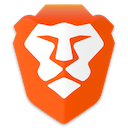
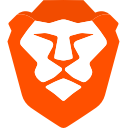
Initialize the Browser Action and set some settings:
- Badge color
- Higher resolution (vector) icon
  (Fix https://github.com/brave/brave-browser/issues/844)
- Badge displays '99+' when block count is > 99
- Shields are disabled for non-http(s) sites
  (Fix https://github.com/brave/brave-browser/issues/503)
- Default icon before a tab loads is the shields-on icon
- Set shields badge count for active tab only
  (Fix https://github.com/brave/brave-browser/issues/743)

Address some features of https://github.com/brave/brave-browser/issues/668

diff --git a/test/app/background/api/browserActionAPITest.ts b/test/app/background/api/browserActionAPITest.ts
@@ -13,7 +13,8 @@ describe('BrowserAction API', () => {
     before(function () {
       this.spy = sinon.spy(chrome.browserAction, 'setBadgeText')
       this.text = '42'
-      browserActionAPI.setBadgeText(this.text)
+      this.tabId = 1337
+      browserActionAPI.setBadgeText(this.tabId, this.text)
     })
     after(function () {
       this.spy.restore()
@@ -21,55 +22,52 @@ describe('BrowserAction API', () => {
     it('calls chrome.browserAction.setBadgeText with the text', function () {
       assert(this.spy.calledOnce)
       assert.deepEqual(this.spy.getCall(0).args[0], {
+        tabId: this.tabId,
         text: this.text
       })
     })
   })
   describe('setIcon', function () {
-    const enabledIconPath = 'img/icon-16.png'
-    const disabledIconPath = 'img/icon-16-disabled.png'
     before(function () {
-      this.spy = sinon.spy(chrome.browserAction, 'setIcon')
+      this.setIconSpy = sinon.spy(chrome.browserAction, 'setIcon')
+      this.disableSpy = sinon.spy(chrome.browserAction, 'disable')
+      this.enableSpy = sinon.spy(chrome.browserAction, 'enable')
       this.url = 'https://brave.com'
       this.tabId = 1
       this.shieldsEnabled = true
     })
     after(function () {
-      this.spy.restore()
+      this.setIconSpy.restore()
+      this.disableSpy.restore()
+      this.enableSpy.restore()
     })
     afterEach(function () {
-      this.spy.reset()
+      this.setIconSpy.reset()
+      this.disableSpy.reset()
+      this.enableSpy.reset()
     })
-    it('sets the enabled icon when protocol is http', function () {
+    it('sets enabled when protocol is http', function () {
       this.url = 'http://not-very-awesome-http-page.com'
       browserActionAPI.setIcon(this.url, this.tabId, this.shieldsEnabled)
-      assert.deepEqual(this.spy.getCall(0).args[0], {
-        path: enabledIconPath,
-        tabId: this.tabId
-      })
+      assert.deepEqual(this.enableSpy.getCall(0).args[0], this.tabId)
     })
     it('sets the enabled icon when protocol is https', function () {
       this.url = 'https://very-awesome-https-page.com'
       browserActionAPI.setIcon(this.url, this.tabId, this.shieldsEnabled)
-      assert.deepEqual(this.spy.getCall(0).args[0], {
-        path: enabledIconPath,
-        tabId: this.tabId
-      })
+      assert.deepEqual(this.enableSpy.getCall(0).args[0], this.tabId)
     })
     it('sets the disabled icon when the protocol is neither https nor http', function () {
       this.url = 'brave://welcome'
       browserActionAPI.setIcon(this.url, this.tabId, this.shieldsEnabled)
-      assert.deepEqual(this.spy.getCall(0).args[0], {
-        path: disabledIconPath,
-        tabId: this.tabId
-      })
+      assert.deepEqual(this.disableSpy.getCall(0).args[0], this.tabId)
     })
     it('sets the disabled icon when the protocol is http and shield is off', function () {
       this.url = 'http://not-very-awesome-http-page.com'
       this.shieldsEnabled = false
       browserActionAPI.setIcon(this.url, this.tabId, this.shieldsEnabled)
-      assert.deepEqual(this.spy.getCall(0).args[0], {
-        path: disabledIconPath,
+      assert.deepEqual(this.enableSpy.getCall(0).args[0], this.tabId)
+      assert.deepEqual(this.setIconSpy.getCall(0).args[0], {
+        path: browserActionAPI.shieldsOffIcon,
         tabId: this.tabId
       })
     })
@@ -77,8 +75,9 @@ describe('BrowserAction API', () => {
       this.url = 'https://very-awesome-https-page.com'
       this.shieldsEnabled = false
       browserActionAPI.setIcon(this.url, this.tabId, this.shieldsEnabled)
-      assert.deepEqual(this.spy.getCall(0).args[0], {
-        path: disabledIconPath,
+      assert.deepEqual(this.enableSpy.getCall(0).args[0], this.tabId)
+      assert.deepEqual(this.setIconSpy.getCall(0).args[0], {
+        path: browserActionAPI.shieldsOffIcon,
         tabId: this.tabId
       })
     })

diff --git a/app/background/api/browserActionAPI.ts b/app/background/api/browserActionAPI.ts
@@ -4,13 +4,37 @@
 
 import { isHttpOrHttps } from '../../helpers/urlUtils'
 
+export const shieldsOnIcon = 'img/icon.svg'
+export const shieldsOffIcon = 'img/icon-off.svg'
+
+/**
+ * Initializes the browser action UI
+ */
+export function init () {
+  // Setup badge color
+  chrome.browserAction.setBadgeBackgroundColor({
+    color: [66, 66, 66, 100]
+  })
+  // Initial / default icon
+  chrome.browserAction.setIcon({
+    path: shieldsOnIcon
+  })
+  // By default, icon is disabled,
+  // so that we do not enable the icon in a new tab and then disable it
+  // when the context is not http(s).
+  chrome.browserAction.disable()
+}
+
 /**
  * Sets the badge text
  * @param {string} text - The text to put on the badge
  */
-export const setBadgeText = (text: string) => {
+export const setBadgeText = (tabId: number, text: string) => {
   if (chrome.browserAction) {
-    chrome.browserAction.setBadgeText({ text: String(text) })
+    chrome.browserAction.setBadgeText({
+      tabId,
+      text: String(text)
+    })
   }
 }
 
@@ -18,13 +42,17 @@ export const setBadgeText = (text: string) => {
  * Updates the shields icon based on shields state
  */
 export const setIcon = (url: string, tabId: number, shieldsOn: boolean) => {
-  const shieldsEnabledIcon = 'img/icon-16.png'
-  const shieldsDisabledIcon = 'img/icon-16-disabled.png'
 
+  const actionIsDisabled = !isHttpOrHttps(url)
   if (chrome.browserAction) {
     chrome.browserAction.setIcon({
-      path: shieldsOn && isHttpOrHttps(url) ? shieldsEnabledIcon : shieldsDisabledIcon,
+      path: shieldsOn ? shieldsOnIcon : shieldsOffIcon,
       tabId
     })
+    if (actionIsDisabled) {
+      chrome.browserAction.disable(tabId)
+    } else {
+      chrome.browserAction.enable(tabId)
+    }
   }
 }

diff --git a/test/testData.ts b/test/testData.ts
@@ -74,8 +74,11 @@ export const getMockChrome = () => {
       onStartup: new ChromeEvent()
     },
     browserAction: {
-      setBadgeText: function (text: string) {},
-      setIcon: function (icon: string, tabId: number) {}
+      setBadgeBackgroundColor: function (properties: object) {},
+      setBadgeText: function (textProperties: object) {},
+      setIcon: function (iconProperties: object) {},
+      enable: function (tabId?: number) {},
+      disable: function (tabId?: number) {}
     },
     tabs: {
       queryAsync: function () {
@@ -149,6 +152,7 @@ export const initialState = deepFreeze({
     tabs: {},
     windows: {}
   },
+  runtime: {},
   shieldsPanel: {
     currentWindowId: -1,
     tabs: {},

diff --git a/app/types/actions/index.ts b/app/types/actions/index.ts
@@ -3,10 +3,12 @@ import { tabActions } from './tabActions'
 import { webNavigationActions } from './webNavigationActions'
 import { windowActions } from './windowActions'
 import { cosmeticFilterActions } from './cosmeticFilterActions'
+import { runtimeActions } from './runtimeActions'
 
 export type Actions =
   shieldPanelActions |
   tabActions |
   webNavigationActions |
   windowActions |
-  cosmeticFilterActions
+  cosmeticFilterActions |
+  runtimeActions

diff --git a/app/background/events/runtimeEvents.ts b/app/background/events/runtimeEvents.ts
@@ -4,8 +4,10 @@
 
 import windowActions from '../actions/windowActions'
 import tabActions from '../actions/tabActions'
+import runtimeActions from '../actions/runtimeActions'
 
 chrome.runtime.onStartup.addListener(() => {
+  runtimeActions.runtimeDidStartup()
   chrome.windows.getAllAsync({ populate: true }).then((windows: chrome.windows.Window[]) => {
     windows.forEach((win: chrome.windows.Window) => {
       windowActions.windowCreated(win)

diff --git a/app/background/reducers/runtimeReducer.ts b/app/background/reducers/runtimeReducer.ts
@@ -1,0 +1,15 @@
+import { Actions } from '../../types/actions'
+import * as runtimeActions from '../../constants/runtimeActionTypes'
+import * as browserActionAPI from '../api/browserActionAPI'
+
+type State = { }
+
+export default function runtimeReducer (state: State = { }, action: Actions): State {
+  switch (action.type) {
+    case runtimeActions.RUNTIME_DID_STARTUP: {
+      browserActionAPI.init()
+      break
+    }
+  }
+  return state
+}

diff --git a/app/background/reducers.ts b/app/background/reducers.ts
@@ -6,8 +6,10 @@ import { combineReducers } from 'redux'
 
 import shieldsPanelReducer from './reducers/shieldsPanelReducer'
 import cosmeticFilterReducer from './reducers/cosmeticFilterReducer'
+import runtimeReducer from './reducers/runtimeReducer'
 
 export default combineReducers({
   shieldsPanel: shieldsPanelReducer,
-  cosmeticFilter: cosmeticFilterReducer
+  cosmeticFilter: cosmeticFilterReducer,
+  runtime: runtimeReducer
 })

diff --git a/app/background/actions/runtimeActions.ts b/app/background/actions/runtimeActions.ts
@@ -1,0 +1,8 @@
+/* This Source Code Form is subject to the terms of the Mozilla Public
+ * License, v. 2.0. If a copy of the MPL was not distributed with this file,
+ * You can obtain one at http://mozilla.org/MPL/2.0/. */
+
+import { bindActionCreators } from 'redux'
+import store from '../store'
+import * as runtimeActions from '../../actions/runtimeActions'
+export default bindActionCreators(runtimeActions, store.dispatch)

diff --git a/app/background/reducers/shieldsPanelReducer.ts b/app/background/reducers/shieldsPanelReducer.ts
@@ -30,7 +30,7 @@ const updateBadgeText = (state: State) => {
   if (tab) {
     const total = tab.adsBlocked + tab.trackersBlocked + tab.javascriptBlocked + tab.fingerprintingBlocked + tab.httpsRedirected
     // do not show any badge if there are no blocked items
-    setBadgeText(total > 0 ? total.toString() : '')
+    setBadgeText(tabId, total > 99 ? '99+' : total > 0 ? total.toString() : '')
   }
 }
 

diff --git a/app/actions/runtimeActions.ts b/app/actions/runtimeActions.ts
@@ -1,0 +1,11 @@
+/* This Source Code Form is subject to the terms of the Mozilla Public
+ * License, v. 2.0. If a copy of the MPL was not distributed with this file,
+ * You can obtain one at http://mozilla.org/MPL/2.0/. */
+
+import * as types from '../constants/runtimeActionTypes'
+
+export function runtimeDidStartup () {
+  return {
+    type: types.RUNTIME_DID_STARTUP
+  }
+}

diff --git a/test/app/background/reducers/shieldsPanelReducerTest.ts b/test/app/background/reducers/shieldsPanelReducerTest.ts
@@ -490,7 +490,7 @@ describe('braveShieldsPanelReducer', () => {
         }
       })
       assert.equal(this.spy.calledOnce, true)
-      assert.equal(this.spy.getCall(0).args[0], '12')
+      assert.equal(this.spy.getCall(0).args[1], '12')
     })
     it('increments for JS blocking', function () {
       let nextState = shieldsPanelReducer(state, {

diff --git a/app/types/actions/runtimeActions.ts b/app/types/actions/runtimeActions.ts
@@ -1,0 +1,11 @@
+import * as types from '../../constants/runtimeActionTypes'
+
+interface RuntimeDidStartupReturn {
+  type: typeof types.RUNTIME_DID_STARTUP
+}
+
+export interface RuntimeDidStartup {
+  (): RuntimeDidStartupReturn
+}
+
+export type runtimeActions = RuntimeDidStartupReturn
